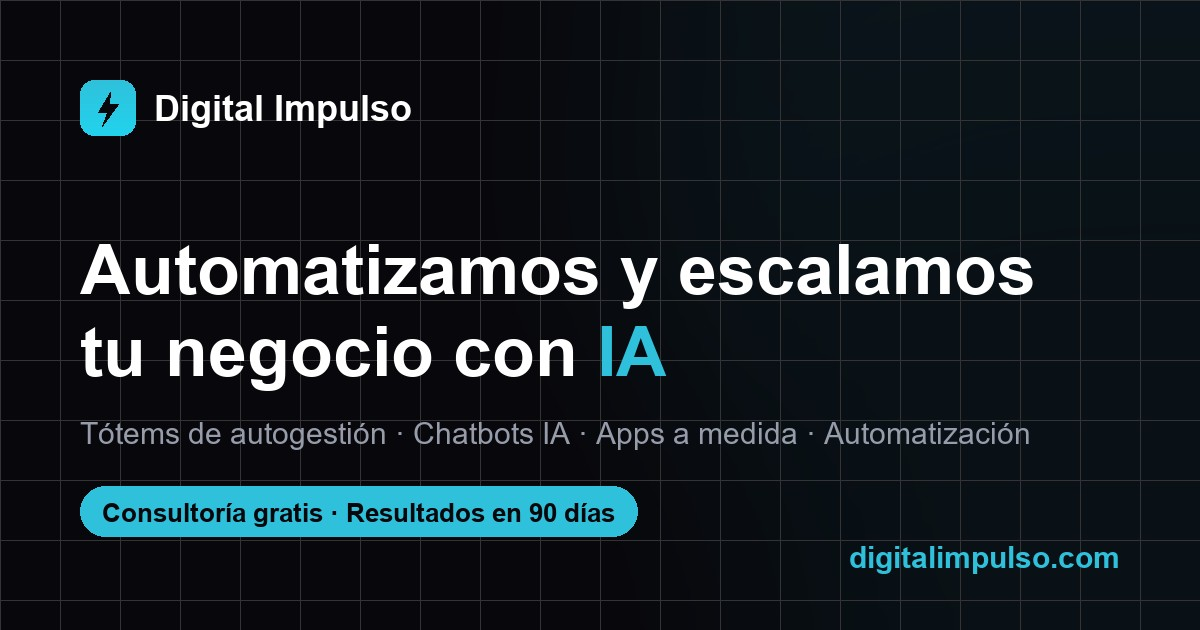
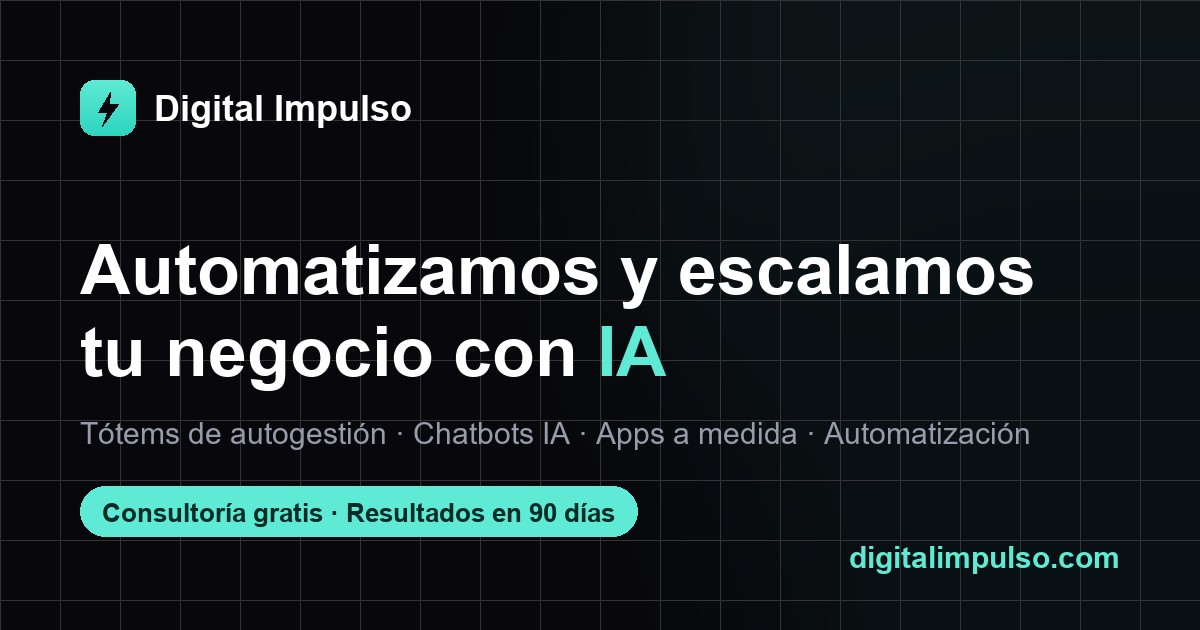
Nueva paleta: acento teal/mint (basada en la imagen de referencia)
- Reemplazado el celeste por verde menta/teal: #7DD3FC->#5EEAD4, #22D3EE->#2DD4BF,
  tonos claros y rgba correspondientes; texto oscuro de botones a #052B26
- Fondo negro y texto blanco se mantienen (coinciden con la referencia)
- og-image regenerada con la paleta nueva

diff --git a/styles.css b/styles.css
@@ -2,8 +2,8 @@
 html { scroll-behavior: smooth; }
 
 :root {
-  --c: #2FC1DB;
-  --c2: #22D3EE;
+  --c: #5EEAD4;
+  --c2: #2DD4BF;
   --bg: #000000;
   --bg2: #0A0A0F;
   --txt: #FFFFFF;
@@ -27,11 +27,11 @@ body {
   z-index: 0;
   top: 0; left: 0;
   width: 100%; height: 100%;
-  background: radial-gradient(600px circle at var(--mx, 50%) var(--my, 50%), rgba(47,193,219,0.07), transparent 40%);
+  background: radial-gradient(600px circle at var(--mx, 50%) var(--my, 50%), rgba(94,234,212,0.07), transparent 40%);
 }
 
 .text-gradient {
-  background: linear-gradient(135deg, #2FC1DB, #22D3EE);
+  background: linear-gradient(135deg, #5EEAD4, #2DD4BF);
   -webkit-background-clip: text;
   background-clip: text;
   -webkit-text-fill-color: transparent;
@@ -73,7 +73,7 @@ nav#navbar.scrolled { background: rgba(0,0,0,0.6); }
 .nav-logo-icon {
   width: 28px;
   height: 28px;
-  background: linear-gradient(135deg, #2FC1DB, #22D3EE);
+  background: linear-gradient(135deg, #5EEAD4, #2DD4BF);
   border-radius: 7px;
   display: flex;
   align-items: center;
@@ -108,8 +108,8 @@ nav#navbar.scrolled { background: rgba(0,0,0,0.6); }
 .nav-tel:hover { color: #fff; }
 
 .btn-primary {
-  background: linear-gradient(135deg, #2FC1DB, #22D3EE);
-  color: #06202e;
+  background: linear-gradient(135deg, #5EEAD4, #2DD4BF);
+  color: #052B26;
   text-decoration: none;
   font-size: 0.85rem;
   font-weight: 700;
@@ -122,7 +122,7 @@ nav#navbar.scrolled { background: rgba(0,0,0,0.6); }
 .btn-primary:hover {
   opacity: 0.85;
   transform: translateY(-1px);
-  box-shadow: 0 0 20px rgba(47,193,219,0.4);
+  box-shadow: 0 0 20px rgba(94,234,212,0.4);
 }
 
 /* ============ HERO ============ */
@@ -159,9 +159,9 @@ nav#navbar.scrolled { background: rgba(0,0,0,0.6); }
   gap: 8px;
   padding: 6px 16px;
   border-radius: 100px;
-  background: rgba(47,193,219,0.08);
-  border: 1px solid rgba(47,193,219,0.2);
-  color: #2FC1DB;
+  background: rgba(94,234,212,0.08);
+  border: 1px solid rgba(94,234,212,0.2);
+  color: #5EEAD4;
   font-size: 0.78rem;
   font-weight: 600;
   margin-bottom: 28px;
@@ -170,8 +170,8 @@ nav#navbar.scrolled { background: rgba(0,0,0,0.6); }
 .hero-badge-dot {
   width: 7px; height: 7px;
   border-radius: 50%;
-  background: #2FC1DB;
-  box-shadow: 0 0 10px #2FC1DB;
+  background: #5EEAD4;
+  box-shadow: 0 0 10px #5EEAD4;
   animation: pulseDot 1.8s infinite;
 }
 
@@ -190,7 +190,7 @@ nav#navbar.scrolled { background: rgba(0,0,0,0.6); }
 
 #typewriter::after {
   content: '|';
-  -webkit-text-fill-color: #2FC1DB;
+  -webkit-text-fill-color: #5EEAD4;
   animation: caret 0.8s steps(1) infinite;
 }
 
@@ -213,8 +213,8 @@ nav#navbar.scrolled { background: rgba(0,0,0,0.6); }
 }
 
 .hero-btn-main {
-  background: linear-gradient(135deg, #2FC1DB, #22D3EE);
-  color: #06202e;
+  background: linear-gradient(135deg, #5EEAD4, #2DD4BF);
+  color: #052B26;
   text-decoration: none;
   font-size: 0.95rem;
   font-weight: 700;
@@ -225,7 +225,7 @@ nav#navbar.scrolled { background: rgba(0,0,0,0.6); }
 
 .hero-btn-main:hover {
   transform: translateY(-2px);
-  box-shadow: 0 8px 30px rgba(47,193,219,0.4);
+  box-shadow: 0 8px 30px rgba(94,234,212,0.4);
 }
 
 .hero-btn-ghost {
@@ -316,7 +316,7 @@ nav#navbar.scrolled { background: rgba(0,0,0,0.6); }
   font-size: clamp(2.2rem, 4vw, 3.2rem);
   font-weight: 900;
   letter-spacing: -0.04em;
-  background: linear-gradient(135deg, #fff, #2FC1DB);
+  background: linear-gradient(135deg, #fff, #5EEAD4);
   -webkit-background-clip: text;
   background-clip: text;
   -webkit-text-fill-color: transparent;
@@ -339,7 +339,7 @@ nav#navbar.scrolled { background: rgba(0,0,0,0.6); }
   font-weight: 700;
   letter-spacing: 0.14em;
   text-transform: uppercase;
-  color: #2FC1DB;
+  color: #5EEAD4;
   margin-bottom: 16px;
   display: flex;
   align-items: center;
@@ -350,7 +350,7 @@ nav#navbar.scrolled { background: rgba(0,0,0,0.6); }
   content: '';
   width: 20px;
   height: 1px;
-  background: #2FC1DB;
+  background: #5EEAD4;
   display: block;
 }
 
@@ -408,8 +408,8 @@ nav#navbar.scrolled { background: rgba(0,0,0,0.6); }
   width: 40px;
   height: 40px;
   border-radius: 10px;
-  background: rgba(47,193,219,0.12);
-  border: 1px solid rgba(47,193,219,0.2);
+  background: rgba(94,234,212,0.12);
+  border: 1px solid rgba(94,234,212,0.2);
   display: flex;
   align-items: center;
   justify-content: center;
@@ -429,15 +429,15 @@ nav#navbar.scrolled { background: rgba(0,0,0,0.6); }
   border-radius: 100px;
   font-size: 0.72rem;
   font-weight: 600;
-  background: rgba(47,193,219,0.1);
-  border: 1px solid rgba(47,193,219,0.2);
-  color: #2FC1DB;
+  background: rgba(94,234,212,0.1);
+  border: 1px solid rgba(94,234,212,0.2);
+  color: #5EEAD4;
 }
 
 .svc-pill-hot {
-  background: rgba(34,211,238,0.1);
-  border-color: rgba(34,211,238,0.3);
-  color: #A5F3FC;
+  background: rgba(45,212,191,0.1);
+  border-color: rgba(45,212,191,0.3);
+  color: #99F6E4;
 }
 
 .svc-featured {
@@ -447,8 +447,8 @@ nav#navbar.scrolled { background: rgba(0,0,0,0.6); }
   justify-content: space-between;
   gap: 28px;
   flex-wrap: wrap;
-  background: rgba(47,193,219,0.04) !important;
-  border-color: rgba(47,193,219,0.2) !important;
+  background: rgba(94,234,212,0.04) !important;
+  border-color: rgba(94,234,212,0.2) !important;
 }
 
 .svc-feat-main { display: flex; align-items: center; gap: 20px; }
@@ -473,9 +473,9 @@ nav#navbar.scrolled { background: rgba(0,0,0,0.6); }
   padding: 16px;
 }
 .totem-card:hover {
-  border-color: rgba(47,193,219,0.4);
+  border-color: rgba(94,234,212,0.4);
   transform: translateY(-6px);
-  box-shadow: 0 22px 50px -24px rgba(47,193,219,0.35);
+  box-shadow: 0 22px 50px -24px rgba(94,234,212,0.35);
 }
 
 .totem-screen {
@@ -492,8 +492,8 @@ nav#navbar.scrolled { background: rgba(0,0,0,0.6); }
   align-self: flex-start;
   font-size: 0.7rem; letter-spacing: 0.12em; text-transform: uppercase; font-weight: 600;
   color: var(--c);
-  background: rgba(47,193,219,0.1);
-  border: 1px solid rgba(47,193,219,0.22);
+  background: rgba(94,234,212,0.1);
+  border: 1px solid rgba(94,234,212,0.22);
   padding: 4px 11px; border-radius: 100px;
   margin: 18px 0 12px;
 }
@@ -521,7 +521,7 @@ nav#navbar.scrolled { background: rgba(0,0,0,0.6); }
   border-radius: 18px; overflow: hidden; background: #000;
   aspect-ratio: 478 / 850;
   border: 1px solid var(--border);
-  box-shadow: 0 30px 70px -30px rgba(47,193,219,0.4);
+  box-shadow: 0 30px 70px -30px rgba(94,234,212,0.4);
 }
 .totem-feature-screen video { width: 100%; height: 100%; object-fit: cover; display: block; }
 
@@ -546,7 +546,7 @@ nav#navbar.scrolled { background: rgba(0,0,0,0.6); }
   color: inherit;
 }
 
-.case-card:hover { border-color: rgba(47,193,219,0.3); transform: translateY(-3px); }
+.case-card:hover { border-color: rgba(94,234,212,0.3); transform: translateY(-3px); }
 
 .case-media {
   height: 190px;
@@ -562,7 +562,7 @@ nav#navbar.scrolled { background: rgba(0,0,0,0.6); }
 /* Gráfico / ilustración / screenshot: centrado sobre el gradiente */
 .case-graphic { max-width: 82%; max-height: 86%; width: auto; object-fit: contain; position: relative; z-index: 1; }
 
-.case-link { margin-top: 16px; color: #2FC1DB; font-size: 0.8rem; font-weight: 600; transition: 0.2s; }
+.case-link { margin-top: 16px; color: #5EEAD4; font-size: 0.8rem; font-weight: 600; transition: 0.2s; }
 .case-card:hover .case-link { color: #fff; }
 
 .case-media-overlay {
@@ -578,7 +578,7 @@ nav#navbar.scrolled { background: rgba(0,0,0,0.6); }
   font-weight: 700;
   letter-spacing: 0.1em;
   text-transform: uppercase;
-  color: #22D3EE;
+  color: #2DD4BF;
   margin-bottom: 10px;
 }
 
@@ -588,11 +588,11 @@ nav#navbar.scrolled { background: rgba(0,0,0,0.6); }
 .case-result {
   margin-top: 16px;
   padding: 10px 14px;
-  background: rgba(47,193,219,0.07);
-  border: 1px solid rgba(47,193,219,0.15);
+  background: rgba(94,234,212,0.07);
+  border: 1px solid rgba(94,234,212,0.15);
   border-radius: 8px;
   font-size: 0.8rem;
-  color: #2FC1DB;
+  color: #5EEAD4;
   font-weight: 600;
 }
 
@@ -620,14 +620,14 @@ nav#navbar.scrolled { background: rgba(0,0,0,0.6); }
   top: -4px; left: 0;
   width: 7px; height: 7px;
   border-radius: 50%;
-  background: #2FC1DB;
-  box-shadow: 0 0 12px #2FC1DB;
+  background: #5EEAD4;
+  box-shadow: 0 0 12px #5EEAD4;
 }
 
 .process-num {
   font-size: 0.8rem;
   font-weight: 800;
-  color: #2FC1DB;
+  color: #5EEAD4;
   letter-spacing: 0.1em;
   margin-bottom: 12px;
 }
@@ -646,14 +646,14 @@ nav#navbar.scrolled { background: rgba(0,0,0,0.6); }
 .about-metrics span { color: #6B7280; font-size: 0.8rem; }
 
 .about-card {
-  background: linear-gradient(135deg, rgba(47,193,219,0.08), rgba(34,211,238,0.04));
-  border: 1px solid rgba(47,193,219,0.2);
+  background: linear-gradient(135deg, rgba(94,234,212,0.08), rgba(45,212,191,0.04));
+  border: 1px solid rgba(94,234,212,0.2);
   border-radius: 18px;
   padding: 40px;
 }
 
 .about-quote { font-size: 1.2rem; font-weight: 600; line-height: 1.6; letter-spacing: -0.02em; margin-bottom: 20px; }
-.about-author { color: #2FC1DB; font-size: 0.85rem; font-weight: 600; }
+.about-author { color: #5EEAD4; font-size: 0.85rem; font-weight: 600; }
 
 /* ============ CTA ============ */
 .cta-section { padding: clamp(96px, 16vw, 140px) var(--pad-x); text-align: center; position: relative; overflow: hidden; z-index: 1; }
@@ -664,7 +664,7 @@ nav#navbar.scrolled { background: rgba(0,0,0,0.6); }
   top: 50%; left: 50%;
   transform: translate(-50%, -50%);
   width: 800px; height: 500px;
-  background: radial-gradient(ellipse, rgba(47,193,219,0.12), transparent 65%);
+  background: radial-gradient(ellipse, rgba(94,234,212,0.12), transparent 65%);
   pointer-events: none;
   filter: blur(20px);
 }
@@ -696,7 +696,7 @@ nav#navbar.scrolled { background: rgba(0,0,0,0.6); }
   transition: 0.2s;
 }
 
-.cta-input:focus { border-color: rgba(47,193,219,0.5); background: rgba(47,193,219,0.05); }
+.cta-input:focus { border-color: rgba(94,234,212,0.5); background: rgba(94,234,212,0.05); }
 .cta-input::placeholder { color: #6B7280; }
 .cta-note { color: #6B7280; font-size: 0.78rem; margin-top: 16px; position: relative; z-index: 1; }
 
@@ -762,7 +762,7 @@ footer {
 .social-icon:hover {
   color: #fff;
   border-color: var(--c);
-  background: rgba(47,193,219,0.12);
+  background: rgba(94,234,212,0.12);
   transform: translateY(-2px);
 }
 
@@ -884,8 +884,8 @@ footer {
 .case-tags { display: flex; gap: 8px; flex-wrap: wrap; margin-bottom: 8px; }
 .case-tag-chip {
   font-size: 0.7rem; font-weight: 700; letter-spacing: 0.08em; text-transform: uppercase;
-  color: var(--c); background: rgba(47,193,219,0.08);
-  border: 1px solid rgba(47,193,219,0.2); padding: 4px 12px; border-radius: 100px;
+  color: var(--c); background: rgba(94,234,212,0.08);
+  border: 1px solid rgba(94,234,212,0.2); padding: 4px 12px; border-radius: 100px;
 }
 
 .case-hero-media {
@@ -906,7 +906,7 @@ footer {
 .result-item { background: #0A0A0F; border: 1px solid var(--border); border-radius: 14px; padding: 28px 24px; }
 .result-num {
   font-size: clamp(1.7rem, 3vw, 2.1rem); font-weight: 900; letter-spacing: -0.03em;
-  background: linear-gradient(135deg, #fff, #2FC1DB);
+  background: linear-gradient(135deg, #fff, #5EEAD4);
   -webkit-background-clip: text; background-clip: text; -webkit-text-fill-color: transparent;
 }
 .result-label { color: #6B7280; font-size: 0.85rem; margin-top: 8px; line-height: 1.5; }
@@ -925,7 +925,7 @@ footer {
 .subcase h3 { font-size: 1.05rem; font-weight: 700; margin-bottom: 6px; }
 .subcase .subcase-tag { color: var(--c); font-size: 0.75rem; font-weight: 600; text-transform: uppercase; letter-spacing: 0.06em; }
 .subcase p { color: #9CA3AF; font-size: 0.88rem; line-height: 1.65; margin: 10px 0 14px; }
-.subcase .subcase-result { color: #2FC1DB; font-size: 0.82rem; font-weight: 600; }
+.subcase .subcase-result { color: #5EEAD4; font-size: 0.82rem; font-weight: 600; }
 
 .case-cta { text-align: center; padding: clamp(60px, 9vw, 100px) var(--pad-x); border-top: 1px solid var(--border); position: relative; z-index: 1; }
 .case-cta h2 { font-size: clamp(1.6rem, 3.5vw, 2.4rem); font-weight: 900; letter-spacing: -0.03em; margin-bottom: 14px; }
@@ -1003,7 +1003,7 @@ footer {
 /* Lista de beneficios con ícono check (para 'Por qué...') */
 .why-grid { display: grid; grid-template-columns: 1fr 1fr; gap: 26px 44px; margin-top: 28px; }
 .why-item { display: grid; grid-template-columns: auto 1fr; gap: 16px; align-items: start; }
-.why-ico { width: 34px; height: 34px; border-radius: 9px; background: rgba(47,193,219,0.1); border: 1px solid rgba(47,193,219,0.22); display: flex; align-items: center; justify-content: center; color: var(--c); flex-shrink: 0; }
+.why-ico { width: 34px; height: 34px; border-radius: 9px; background: rgba(94,234,212,0.1); border: 1px solid rgba(94,234,212,0.22); display: flex; align-items: center; justify-content: center; color: var(--c); flex-shrink: 0; }
 .why-ico svg { width: 17px; height: 17px; }
 .why-item h3 { font-size: 1rem; font-weight: 700; margin-bottom: 4px; }
 .why-item p { color: #9CA3AF; font-size: 0.9rem; line-height: 1.6; }
@@ -1024,18 +1024,18 @@ footer {
   overflow: hidden;
   transition: border-color 0.25s, transform 0.25s;
 }
-.svc-row:hover { border-color: rgba(47,193,219,0.3); transform: translateY(-2px); }
+.svc-row:hover { border-color: rgba(94,234,212,0.3); transform: translateY(-2px); }
 .svc-row-visual {
   position: relative;
   display: flex; align-items: center; justify-content: center;
   min-height: 150px;
-  background: linear-gradient(135deg, rgba(47,193,219,0.08), rgba(34,211,238,0.03));
+  background: linear-gradient(135deg, rgba(94,234,212,0.08), rgba(45,212,191,0.03));
   border-right: 1px solid var(--border);
 }
 .svc-row-num { position: absolute; top: 18px; left: 22px; font-size: 0.85rem; font-weight: 800; color: var(--c); letter-spacing: 0.06em; }
 .svc-row-ico {
   width: 62px; height: 62px; border-radius: 15px;
-  background: rgba(47,193,219,0.1); border: 1px solid rgba(47,193,219,0.22);
+  background: rgba(94,234,212,0.1); border: 1px solid rgba(94,234,212,0.22);
   display: flex; align-items: center; justify-content: center; color: var(--c);
 }
 .svc-row-ico svg { width: 28px; height: 28px; }
@@ -1047,8 +1047,8 @@ footer {
 /* Alternar lado: filas pares -> visual a la derecha */
 .svc-row:nth-child(even) .svc-row-visual { order: 2; border-right: none; border-left: 1px solid var(--border); }
 
-.svc-row-featured { border-color: rgba(47,193,219,0.25); }
-.svc-row-featured .svc-row-visual { background: linear-gradient(135deg, rgba(47,193,219,0.15), rgba(34,211,238,0.05)); }
+.svc-row-featured { border-color: rgba(94,234,212,0.25); }
+.svc-row-featured .svc-row-visual { background: linear-gradient(135deg, rgba(94,234,212,0.15), rgba(45,212,191,0.05)); }
 
 @media (max-width: 760px) {
   .svc-row { grid-template-columns: 1fr; }
